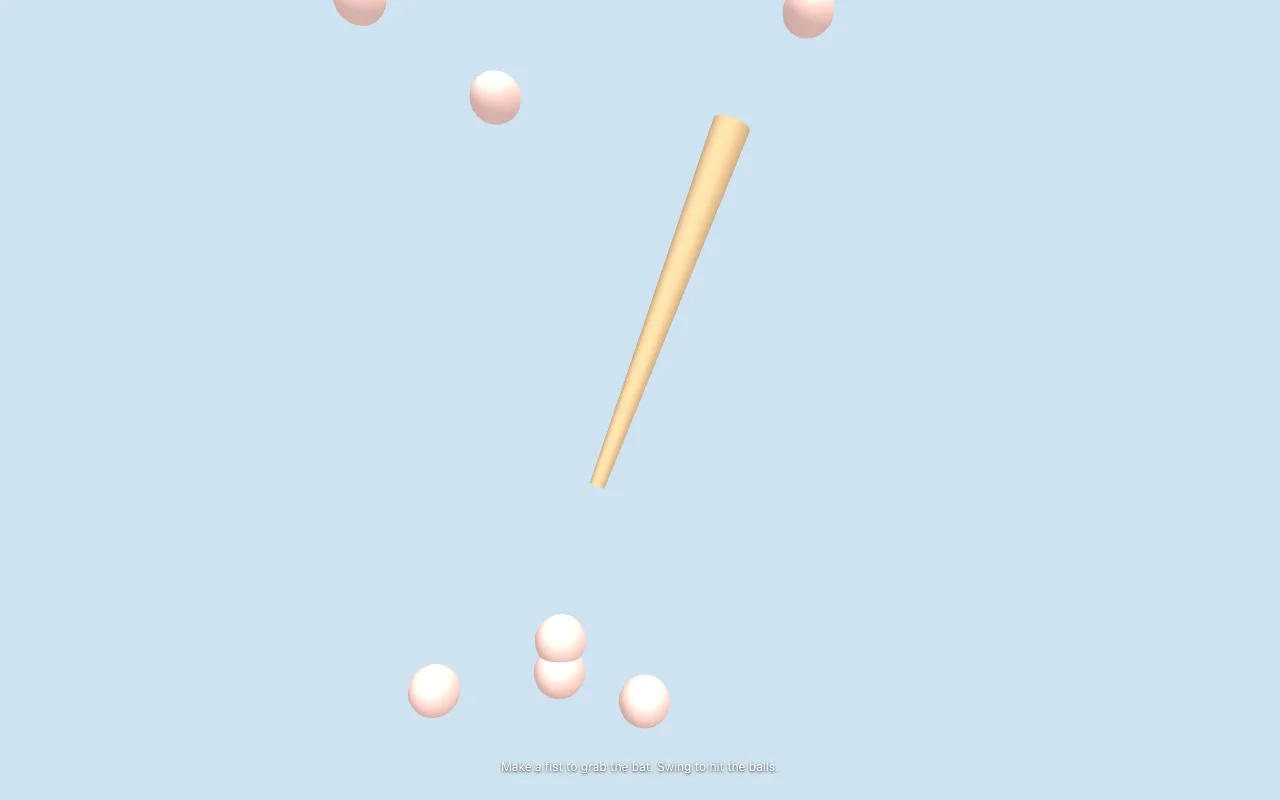
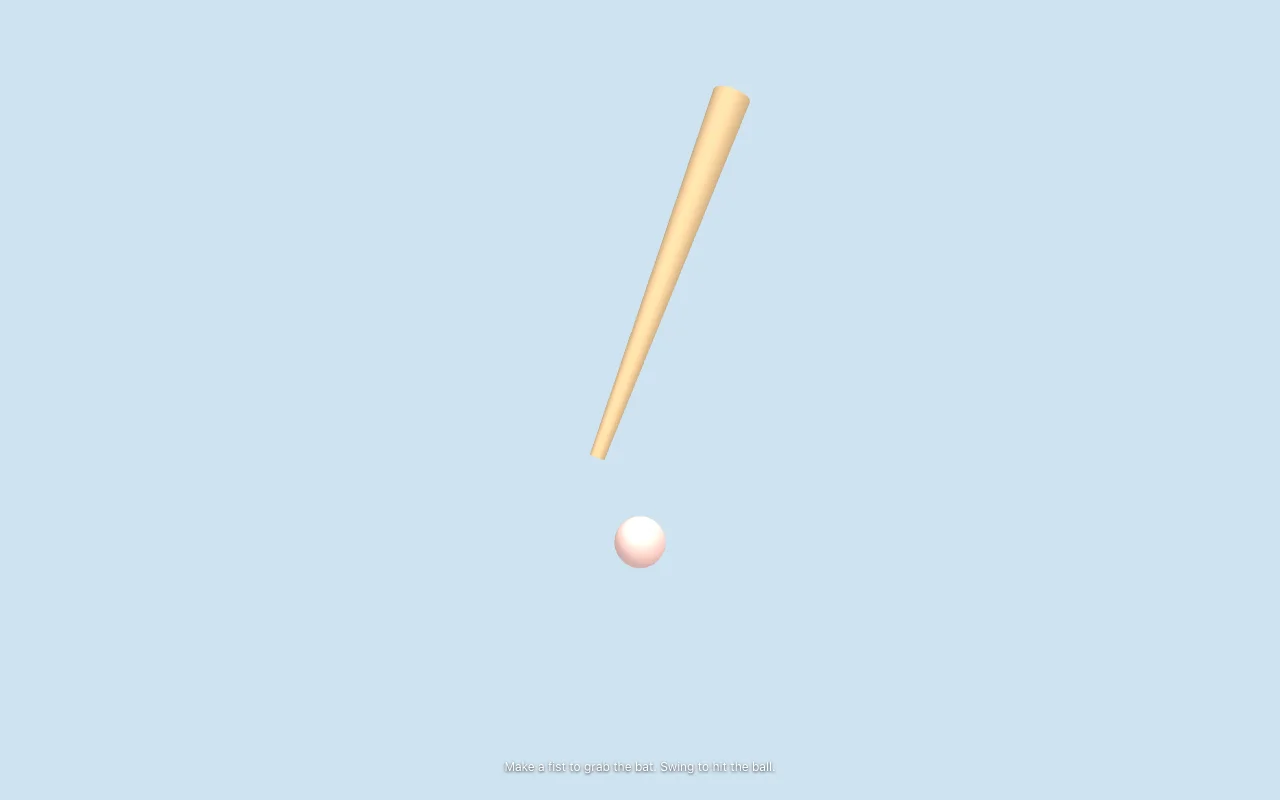
docs: refresh Hand Hold PR screenshot, hint text for a single ball

diff --git a/src/views/Experiments/HandHold/HandHold.vue b/src/views/Experiments/HandHold/HandHold.vue
@@ -302,7 +302,7 @@ onUnmounted(() => {
     <canvas ref="canvas" class="hand-hold__canvas"></canvas>
     <div ref="statsElement" class="hand-hold__stats"></div>
     <p v-if="isActive" class="hand-hold__hint">
-      Make a fist to grab the bat. Swing to hit the balls.
+      Make a fist to grab the bat. Swing to hit the ball.
     </p>
     <div v-if="!isActive" class="hand-hold__gate">
       <Button :disabled="isLoadingModel" @click="startCamera">
